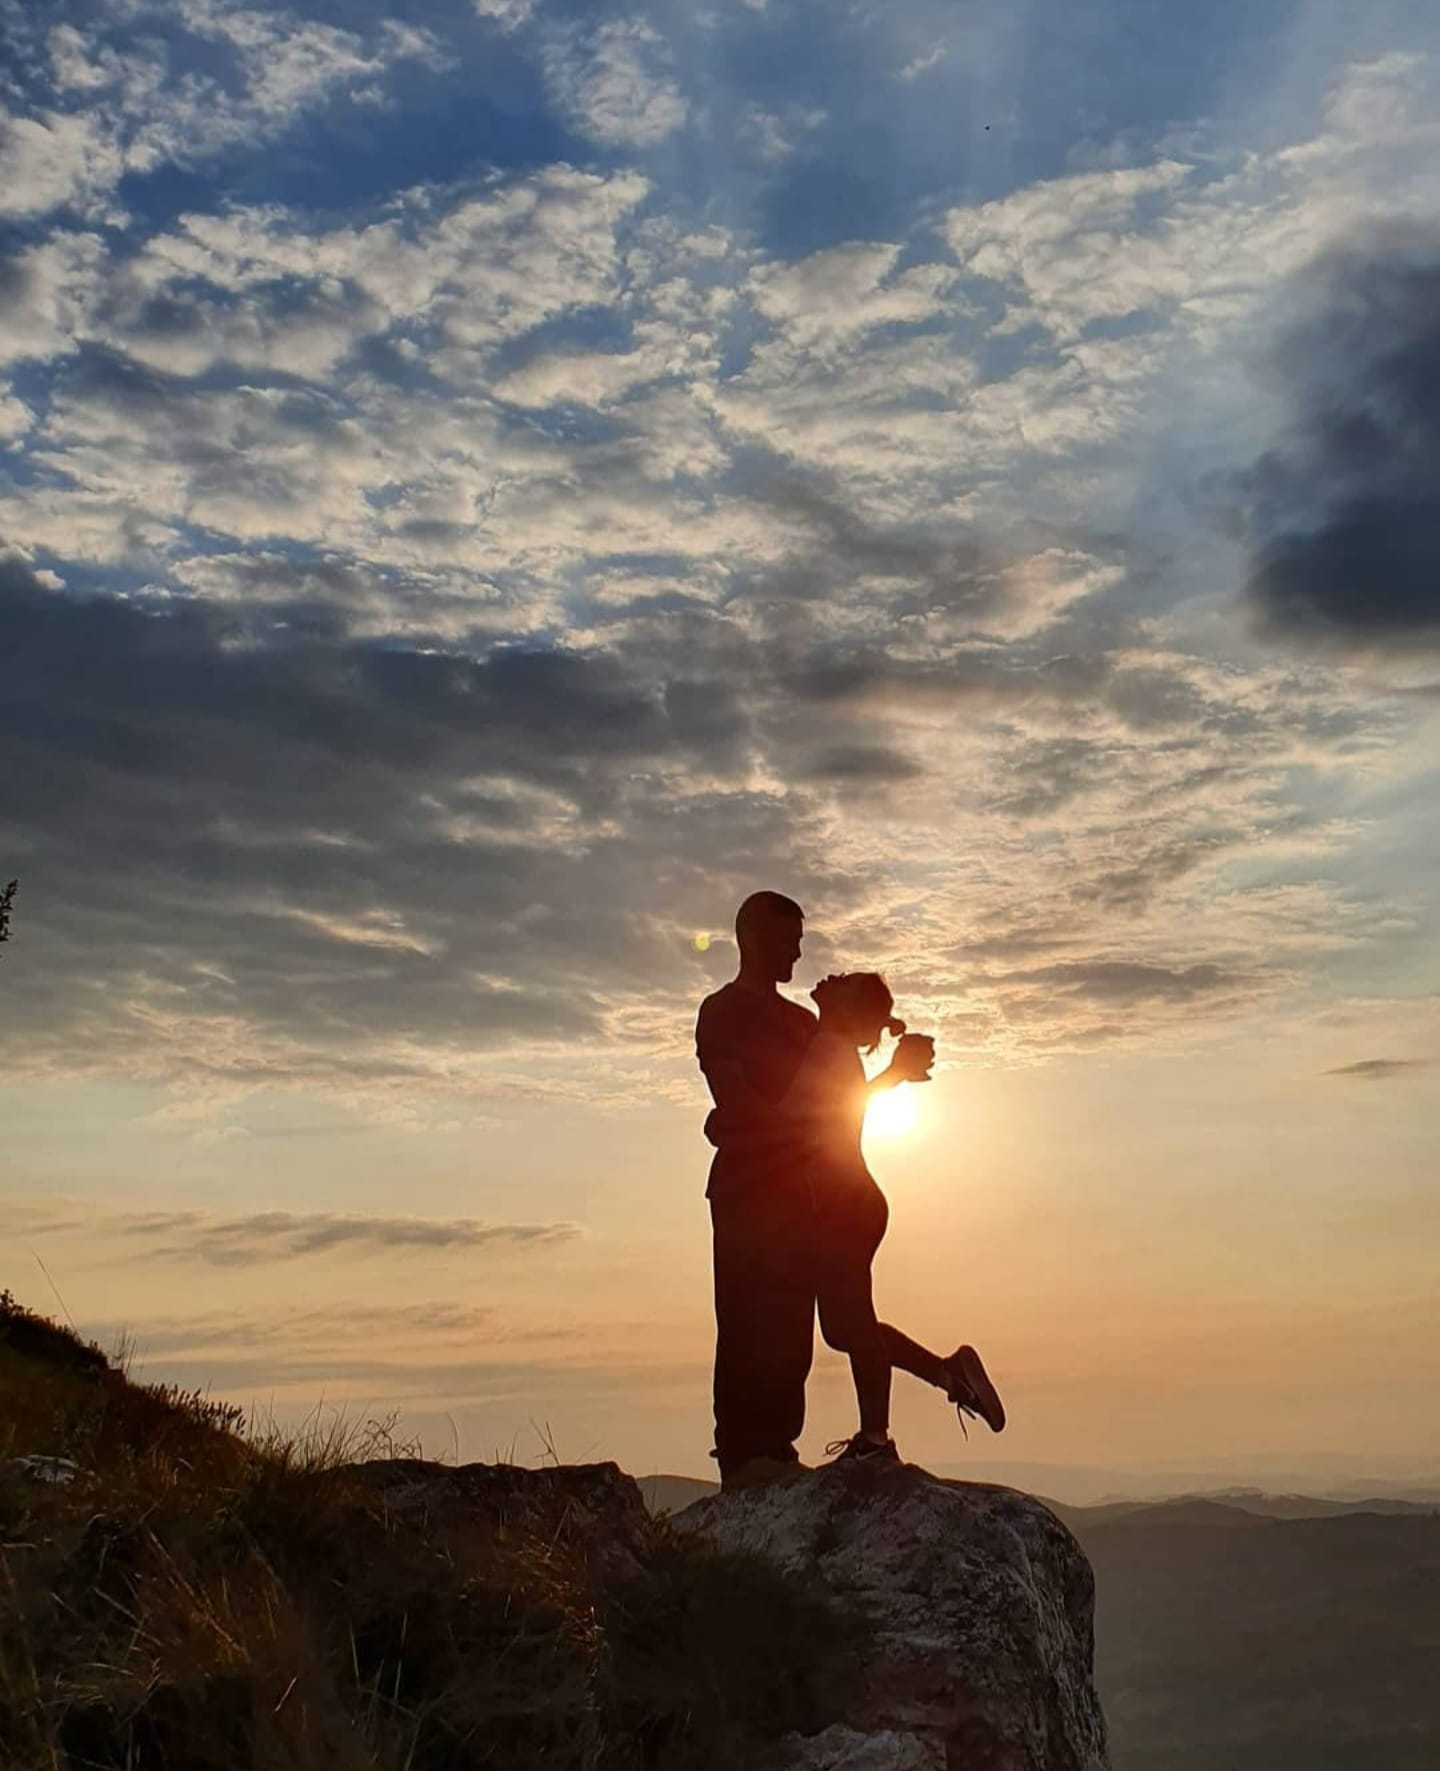
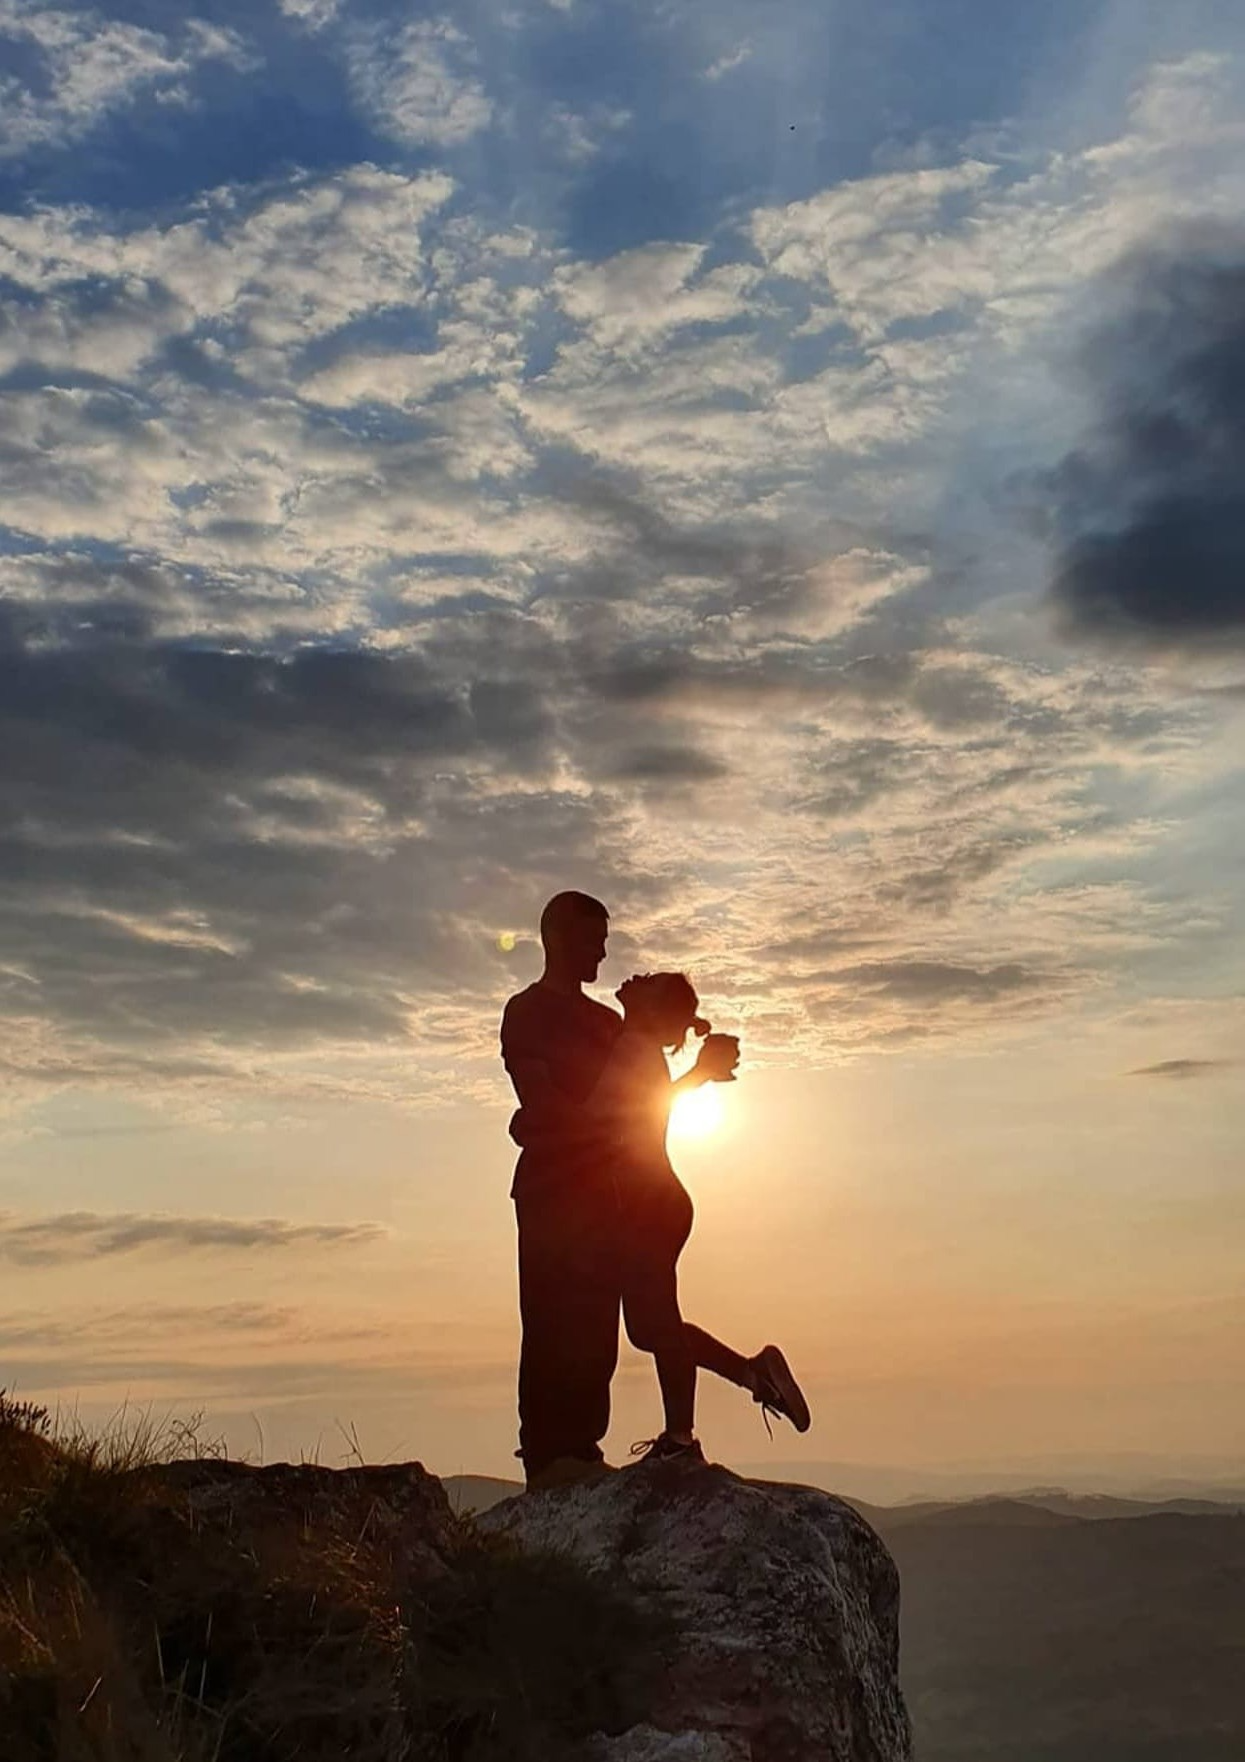
Update photo, add env to development server for google maps

diff --git a/frontend/nicobruno/src/components/Dashboard.js b/frontend/nicobruno/src/components/Dashboard.js
@@ -143,16 +143,16 @@ const Dashboard = () => {
             <ReactTyped
               strings={[
                 "<h3>Família e amigos queridos,</h3>" +
-                "Com grande emoção e carinho, convidamos vocês para celebrar conosco um dos momentos mais especiais de nossas vidas: ^900 o nosso casamento...^1000" +
+                "Com grande emoção e carinho, convidamos vocês para celebrar conosco um dos momentos mais especiais de nossas vidas:  ^900 o nosso casamento...   ^1000" +
                 "<br><br>" +
-                "Criamos este espaço para tornar tudo mais simples: informações, presentes e um convite aberto para comemorar ao nosso lado. ^500" +
+                "Criamos este espaço para tornar tudo mais simples: informações, presentes e um convite aberto para comemorar ao nosso lado.  ^500" +
                 "<br>" +
-                "Ficaremos muito felizes em contar com sua presença, por isso, não deixe de confirmar através do menu ‘Confirme sua Presença’. ^500" +
+                "Ficaremos muito felizes em contar com sua presença, por isso, não deixe de confirmar através do menu ‘Confirme sua Presença’.  ^500" +
                 "<br><br>" +
-                "Contamos com vocês ^100 e mal podemos esperar para celebrar juntos!^1000" +
+                "Contamos com vocês ^100 e mal podemos esperar para celebrar juntos!  ^1000" +
                 "<br><br>" +
                 "Com carinho," +
-                "<p id='signature'>^400 Nicole e Bruno.</p"
+                "<p id='signature'> ^400 Nicole e Bruno.</p"
               ]}
               typeSpeed={35}
               backSpeed={0}
@@ -162,17 +162,17 @@ const Dashboard = () => {
           </div>
           {/* Right Column: Map, address, dress code */}
           <div style={{ flex: "1 1 400px", opacity: 0, animation: "fadeIn 1s ease-in forwards", animationDelay: "34.5s" }}>
-            <h3 style={{ marginBottom: "0.5rem" }}>Dress Code</h3>
-            <p>
+            <h4 style={{ marginBottom: "0.1rem" }}>Dress Code</h4>
+            <h5>
               Pode deixar o paletó e a gravata em casa! Nosso casamento será em clima leve e descontraído,
               e pede apenas um traje esporte fino, com aquele toque de conforto que combina perfeitamente com a festa.
-            </p>
+            </h5>
 
-            <h3 style={{ marginTop: "2rem", marginBottom: "0.5rem" }}>Local</h3>
-            <p>
+            <h4 style={{ marginTop: "2rem", marginBottom: "0.1rem" }}>Local</h4>
+            <h5>
               📍<strong><a href="https://www.google.com/maps/place/Rua+Joao+Wicki+263,+Jardim+Sao+Carlos,+Almirante+Tamandare+-+PR,+83507-254" target="_blank" rel="noopener noreferrer">Chácara Refúgio do Vale</a></strong><br />
               Rua João Wicki, 263 - Jardim São Carlos, Almirante Tamandaré - PR, 83507-254
-            </p>
+            </h5>
 
             <div style={{ marginTop: "1rem", borderRadius: "12px", overflow: "hidden", opacity: 0, animation: "fadeIn 1s ease-in forwards", animationDelay: "2.5s" }}>
               <iframe
@@ -197,24 +197,46 @@ const Dashboard = () => {
       </Element>
 
       <Element name="confirmar" className="section" style={{ minHeight: "100vh", position: "relative" }}>
-        {emailExists ? (
+        {emailExists && !isUpdating ? (
           <div className="confirmation-message">
-            <h2>Esse email já foi usado para confirmar presença.</h2>
-            <p>Se deseja alterar sua confirmação, clique abaixo.</p>
-            <button onClick={() => { setEmailExists(false); setIsUpdating(true); }}>Alterar Confirmação</button>
-            <button onClick={() => { setEmailExists(false); scrollToSection(0); }}>Voltar à página inicial</button>
+            <h2>Esse e-mail já foi usado para confirmar presença.</h2>
+            <p>Se deseja mudar sua confirmação ou número de convidados, você pode abaixo:</p>
+            <div style={{ display: "flex", gap: "1rem", marginTop: "1rem" }}>
+              <button
+                onClick={() => {
+                  setEmailExists(false);
+                  setIsUpdating(true);
+                }}
+              >
+                Alterar Confirmação
+              </button>
+              <button
+                onClick={() => {
+                  setEmailExists(false);
+                  scrollToSection(0);
+                }}
+              >
+                Voltar à página inicial
+              </button>
+            </div>
           </div>
         ) : submitted ? (
           <div className="confirmation-message">
             <h2>{vaiVir === "yes" ? "Obrigado por confirmar presença!" : "Sentiremos sua falta!"}</h2>
-            <p>{vaiVir === "yes" ? "Estamos muito felizes que você irá compartilhar esse momento tão especial conosco." : "Que pena que você não poderá comparecer. Obrigada por nos avisar!"}</p>
-            <small>Você será redirecionado para a página de <a href="/Presentes">Presentes</a> em {redirectCountdown} segundos...</small>
+            <p>
+              {vaiVir === "yes"
+                ? "Estamos muito felizes que você irá compartilhar esse momento tão especial conosco."
+                : "Que pena que você não poderá comparecer. Obrigada por nos avisar!"}
+            </p>
+            <small>
+              Você será redirecionado para a página de{" "}
+              <a href="/Presentes">Presentes</a> em {redirectCountdown} segundos...
+            </small>
           </div>
         ) : (
           <>
-            <h2>Confirme sua Presença</h2>
+            <h2>{isUpdating ? "Alterar Confirmação de Presença" : "Confirme sua Presença"}</h2>
             <form className="rsvp-form" onSubmit={handleRSVPSubmit}>
-
               <div className="toggle-group">
                 <button
                   type="button"
@@ -231,23 +253,90 @@ const Dashboard = () => {
                   Não
                 </button>
               </div>
-              <input type="text" placeholder="Seu nome" required value={nome} onChange={(e) => setNome(e.target.value)} />
-              <input type="email" placeholder="Seu e-mail" required value={email} onChange={(e) => setEmail(e.target.value)} />
+
+              <input
+                type="text"
+                placeholder="Seu nome"
+                required
+                value={nome}
+                onChange={(e) => setNome(e.target.value)}
+              />
+              <input
+                type="email"
+                placeholder="Seu e-mail"
+                required
+                value={email}
+                onChange={(e) => setEmail(e.target.value)}
+              />
+
               {(vaiVir === "yes" || isUpdating) && (
                 <>
-                  <input type="number" placeholder="Número de acompanhantes (incluindo você)" required value={acompanhantes} onChange={(e) => setAcompanhantes(e.target.value)} />
-                  <input type="number" placeholder="Número de crianças" value={criancas} onChange={(e) => setCriancas(e.target.value)} />
+                  <input
+                    type="number"
+                    placeholder="Número de acompanhantes (incluindo você)"
+                    required
+                    value={acompanhantes}
+                    onChange={(e) => setAcompanhantes(e.target.value)}
+                  />
+                  <input
+                    type="number"
+                    placeholder="Número de crianças"
+                    value={criancas}
+                    onChange={(e) => setCriancas(e.target.value)}
+                  />
                 </>
               )}
-              <input type="text" placeholder="Mensagem (opcional)" value={mensagem} onChange={(e) => setMensagem(e.target.value)} onKeyDown={(e) => e.key === 'Enter' && e.preventDefault()} />
-              <button type="submit" disabled={vaiVir === null || submitting}>Enviar Confirmação</button>
-              <button type="button" className="update-button" onClick={() => setIsUpdating(!isUpdating)}>
-                {isUpdating ? "Voltar para confirmação" : "Ou deseja alterar sua resposta?"}
+
+              <input
+                type="text"
+                placeholder="Mensagem (opcional)"
+                value={mensagem}
+                onChange={(e) => setMensagem(e.target.value)}
+                onKeyDown={(e) => e.key === "Enter" && e.preventDefault()}
+              />
+
+              <button type="submit" disabled={vaiVir === null || submitting}>
+                {isUpdating ? "Atualizar Confirmação" : "Enviar Confirmação"}
               </button>
+
+              {!isUpdating && (
+                <button
+                  type="button"
+                  className="update-button"
+                  onClick={() => setIsUpdating(true)}
+                >
+                  Ou deseja alterar sua resposta?
+                </button>
+              )}
+
+              {isUpdating && (
+                <button
+                  type="button"
+                  className="update-button"
+                  onClick={() => {
+                    setIsUpdating(false);
+                    setEmailExists(false);
+                  }}
+                >
+                  Voltar para nova confirmação
+                </button>
+              )}
             </form>
           </>
         )}
-        <div style={{ position: "absolute", bottom: "65px", left: "50%", transform: "translateX(-50%)", display: "flex", justifyContent: "space-between", width: "120px", gap: "2px" }}>
+
+        <div
+          style={{
+            position: "absolute",
+            bottom: "65px",
+            left: "50%",
+            transform: "translateX(-50%)",
+            display: "flex",
+            justifyContent: "space-between",
+            width: "120px",
+            gap: "2px",
+          }}
+        >
           <Arrow direction="up" />
           <Arrow direction="down" />
         </div>

diff --git a/frontend/nicobruno/src/index.css b/frontend/nicobruno/src/index.css
@@ -77,9 +77,12 @@ body {
 }
 
 /* Form */
+/* Maintain same width and height for form no matter what */
 .rsvp-form {
-  margin-top: 40px;
-
+  max-width: 500px;
+  margin: 0 auto;
+  min-height: 460px;
+  transition: all 0.3s ease;
 }
 
 .rsvp-form>* {
@@ -334,15 +337,6 @@ h1 {
   background-color: #c03a2b38;
   color: #444;
   border-color: transparent;
-}
-
-/* Maintain same width and height for form no matter what */
-.rsvp-form {
-  max-width: 500px;
-  margin: 0 auto;
-  min-height: 460px;
-  transition: all 0.3s ease;
-  font-family: ;
 }
                                                              
 

diff --git a/backend/backend.py b/backend/backend.py
@@ -42,7 +42,39 @@ def enviar_email(destinatarios, assunto, corpo):
     except Exception as e:
         print(f"Erro ao enviar e-mail: {e}")
 
-# ========== ENDPOINT DE RSVP ==========
+# ========== ENDPOINT PARA BUSCAR RSVP EXISTENTE ==========
+@app.route("/api/rsvp", methods=["GET"])
+def get_rsvp():
+    email = request.args.get("email", "").strip().lower()
+    if not email:
+        return jsonify({"erro": "E-mail não fornecido"}), 400
+
+    if not os.path.exists(CSV_FILE):
+        return jsonify({"existe": False}), 200
+
+    latest = {}
+    with open(CSV_FILE, "r", encoding="utf-8") as f:
+        reader = csv.DictReader(f)
+        for row in reader:
+            row_email = row["Email"].strip().lower()
+            latest[row_email] = row
+
+    if email not in latest:
+        return jsonify({"existe": False}), 200
+
+    row = latest[email]
+
+    return jsonify({
+        "existe": True,
+        "nome": row["Nome"],
+        "email": row["Email"],
+        "acompanhantes": row["Acompanhantes"],
+        "criancas": row["Criancas"],
+        "mensagem": row["Mensagem"],
+        "vai_vir": row["Vai Vir"].lower() == "sim"
+    }), 200
+
+# ========== ENDPOINT DE RSVP (CRIAR / ATUALIZAR) ==========
 @app.route("/api/rsvp", methods=["POST", "PUT"])
 def confirmar_presenca():
     data = request.json
@@ -57,15 +89,31 @@ def confirmar_presenca():
     if not nome or not email:
         return jsonify({"erro": "Nome e e-mail são obrigatórios"}), 400
 
+    # ========== CRIAR ARQUIVO SE NÃO EXISTE ==========
     os.makedirs("backend", exist_ok=True)
-    is_new_file = not os.path.exists(CSV_FILE)
+    if not os.path.exists(CSV_FILE):
+        with open(CSV_FILE, "w", encoding="utf-8", newline="") as f:
+            writer = csv.writer(f)
+            writer.writerow(["Nome", "Email", "Acompanhantes", "Criancas", "Mensagem", "Vai Vir"])
+
+    # ========== LER CONFIRMAÇÕES EXISTENTES ==========
+    latest = {}
+    with open(CSV_FILE, "r", encoding="utf-8") as f:
+        reader = csv.DictReader(f)
+        for row in reader:
+            row_email = row["Email"].strip().lower()
+            latest[row_email] = row
+
+    # ========== CHECAR SE EMAIL EXISTE NO POST ==========
+    if metodo == "POST" and email in latest:
+        return jsonify({"erro": "Email já cadastrado", "code": 409}), 409
+
+    # ========== ADICIONAR NOVA LINHA NO CSV ==========
     with open(CSV_FILE, "a", encoding="utf-8", newline="") as f:
         writer = csv.writer(f)
-        if is_new_file:
-            writer.writerow(["Nome", "Email", "Acompanhantes", "Criancas", "Mensagem", "Vai Vir"])
         writer.writerow([nome, email, acompanhantes, criancas, mensagem, "Sim" if vai_vir else "Não"])
 
-    # ========== FILTRAR RESPOSTAS MAIS RECENTES ==========
+    # ========== RECRIAR LISTA FINAL ==========
     latest_confirmations = {}
     with open(CSV_FILE, "r", encoding="utf-8") as f:
         reader = csv.DictReader(f)
@@ -73,36 +121,31 @@ def confirmar_presenca():
             row_email = row["Email"].strip().lower()
             latest_confirmations[row_email] = row
 
-    # ========== LISTA DE CONFIRMADOS ==========
+    # ========== LISTA FINAL FORMATADA ==========
     lista_confirmados = []
     total_pessoas = 0
+
     for row in latest_confirmations.values():
         if row["Vai Vir"].strip().lower() == "sim":
-            nome = row["Nome"]
+            nome_c = row["Nome"]
             adultos = int(row["Acompanhantes"])
-            criancas = int(row.get("Criancas", 0))
+            cri = int(row.get("Criancas", 0))
 
             partes = []
             if adultos > 1:
                 partes.append(f"{adultos - 1} acompanhante(s) adulto")
-            if criancas > 0:
-                partes.append(f"{criancas} acompanhante(s) infantil")
+            if cri > 0:
+                partes.append(f"{cri} acompanhante(s) infantil")
 
             if partes:
-                descricao = f"💌 {nome}, com " + " e ".join(partes)
+                descricao = f"💌 {nome_c}, com " + " e ".join(partes)
             else:
-                descricao = f"💌 {nome}"
+                descricao = f"💌 {nome_c}"
 
             lista_confirmados.append(descricao)
-            total_pessoas += adultos + criancas
+            total_pessoas += adultos + cri
 
-    # ========== PRINT PARA CONSOLE ==========
-    print("📋 Lista atualizada de confirmados:")
-    for pessoa in lista_confirmados:
-        print(pessoa)
-    print(f"👥 Total confirmado: {total_pessoas} pessoas\n")
-
-    # ========== MENSAGEM PARA OS NOIVOS ==========
+    # ========== EMAIL PARA OS NOIVOS ==========
     if vai_vir:
         if metodo == "PUT":
             assunto = "Alteração na confirmação 💡"
@@ -123,6 +166,7 @@ def confirmar_presenca():
         + "\n".join(lista_confirmados)
         + f"\n\n👥 Total de pessoas esperadas: {total_pessoas}"
     )
+
     enviar_email(GROOMS_EMAILS, assunto, corpo)
 
     # ========== EMAIL PARA O CONVIDADO ==========
@@ -133,9 +177,14 @@ def confirmar_presenca():
         f"Caso queira deixar-nos um presente, acesse:\n{SITE_URL}#presentes\n\n"
         "Com carinho,\nNicole & Bruno ✨"
     )
-    enviar_email(email, "Obrigado por confirmar sua presença!" if vai_vir else "Sentiremos sua falta!", corpo_convidado)
 
-    return jsonify({"status": "ok", "mensagem": "Confirmação registrada com sucesso"})
+    enviar_email(
+        email,
+        "Obrigado por confirmar sua presença!" if vai_vir else "Sentiremos sua falta!",
+        corpo_convidado
+    )
+
+    return jsonify({"status": "ok", "mensagem": "Confirmação registrada com sucesso"}), 200
 
 
 # ========== RODAR SERVIDOR ==========
